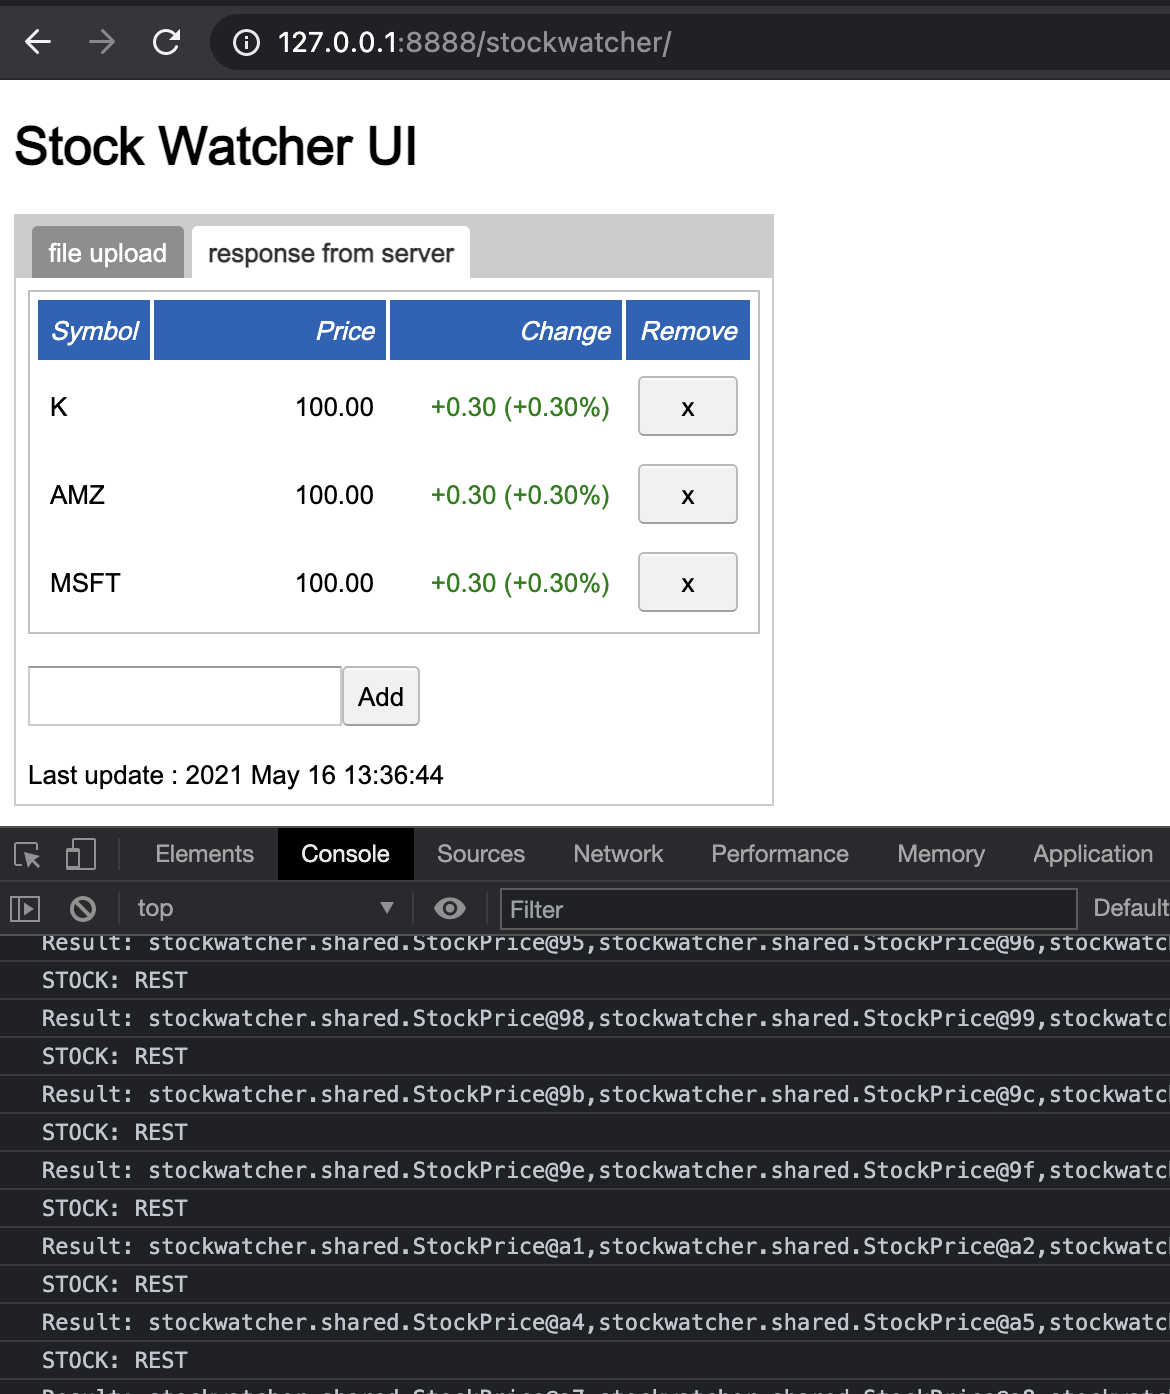
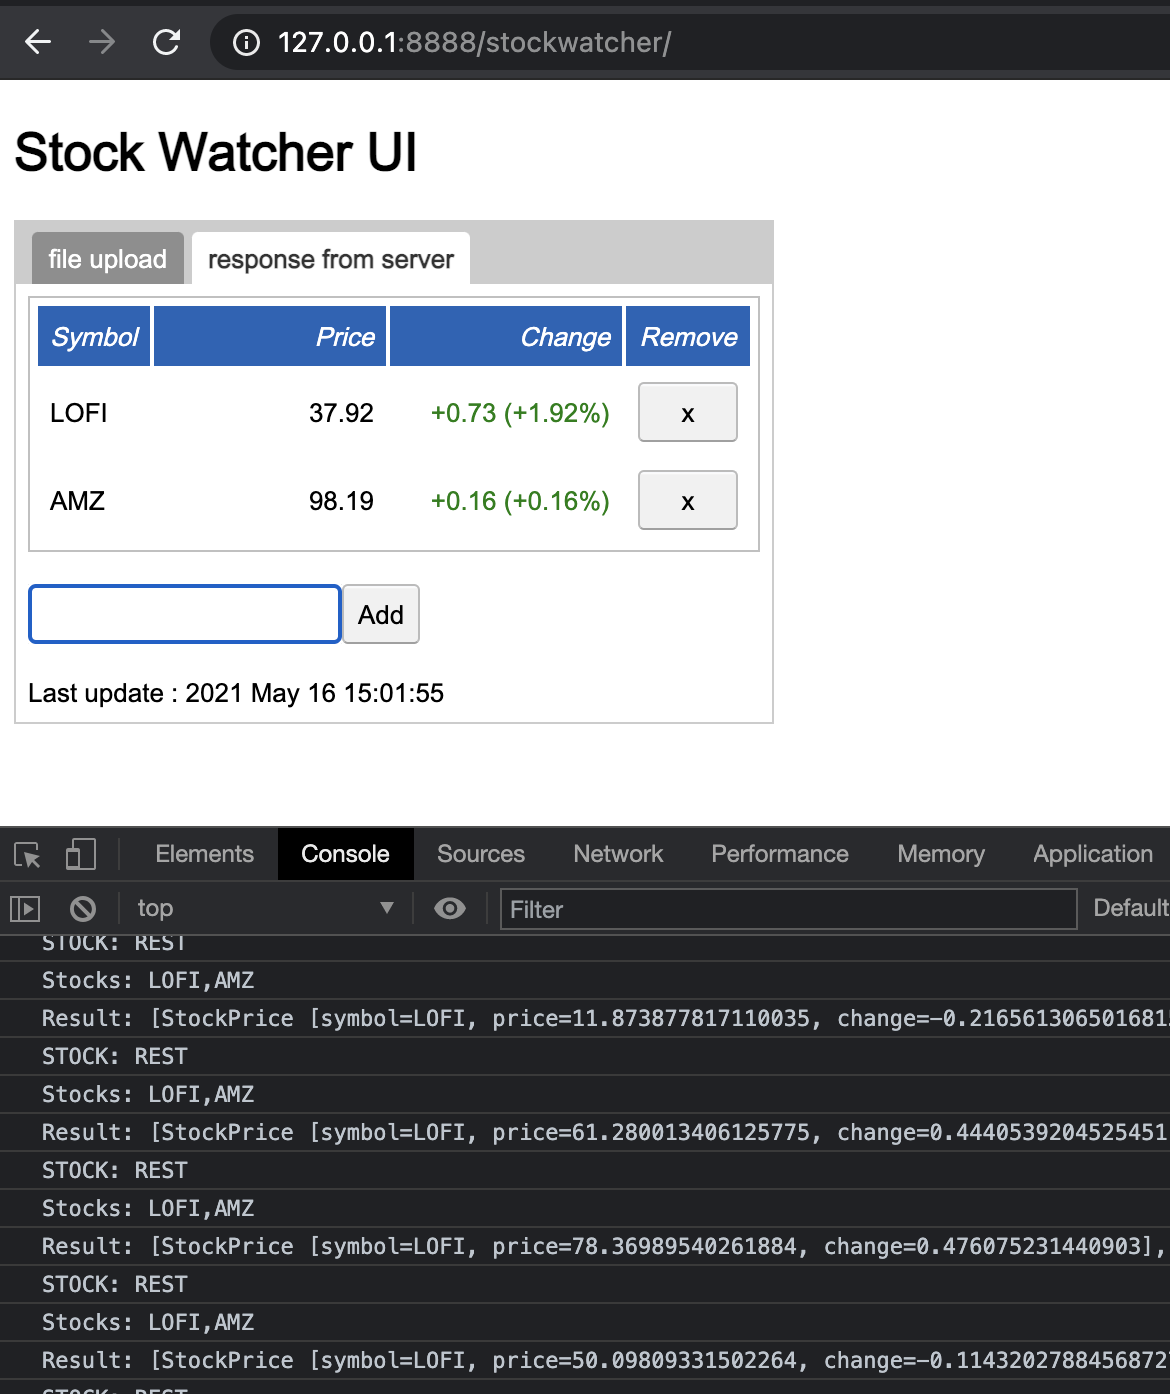
update

diff --git a/stockwatcher-springboot/stockwatcher-springboot-server/src/main/java/stockwatcher/controller/StockPriceRestController.java b/stockwatcher-springboot/stockwatcher-springboot-server/src/main/java/stockwatcher/controller/StockPriceRestController.java
@@ -1,6 +1,7 @@
 package stockwatcher.controller;
 
 import java.util.Arrays;
+import java.util.Random;
 import java.util.logging.Logger;
 
 import org.springframework.web.bind.annotation.CrossOrigin;
@@ -19,18 +20,28 @@ public class StockPriceRestController {
 	private static Logger logger = Logger.getLogger(StockPriceRestController.class.getName());
 
 	public StockPrice[] prices = new StockPrice[] { new StockPrice("AMZN", 100, 0.3), new StockPrice("MSFT", 10, 0.5) };
+	
+	private static final double MAX_PRICE = 100.0; // $100.00
+	private static final double MAX_PRICE_CHANGE = 0.02; // +/- 2%
 
 	@GetMapping(StockPriceServiceEndpoint.STOCK_PRICE_REST)
 	public StockPrice[] getPrices(@RequestParam String[] symbols) {
 		logger.info("Symbols: " + Arrays.toString(symbols));
 		
 		if (symbols.length > 0) {
-			prices = new StockPrice[symbols.length];
+			Random rnd = new Random();
+
+			StockPrice[] prices = new StockPrice[symbols.length];
 			for (int i = 0; i < symbols.length; i++) {
-				prices[i] = new StockPrice(symbols[i], 100, 0.3);
+				double price = rnd.nextDouble() * MAX_PRICE;
+				double change = price * MAX_PRICE_CHANGE * (rnd.nextDouble() * 2f - 1f);
+
+				prices[i] = new StockPrice(symbols[i], price, change);
 			}
+			
 			return prices;
 		}
+		
 		return prices; // default
 	}
 

diff --git a/stockwatcher-springboot/stockwatcher-springboot-client/src/main/java/stockwatcher/client/ResponseFromServerPanel.java b/stockwatcher-springboot/stockwatcher-springboot-client/src/main/java/stockwatcher/client/ResponseFromServerPanel.java
@@ -1,6 +1,7 @@
 package stockwatcher.client;
 
 import java.util.ArrayList;
+import java.util.Arrays;
 import java.util.Date;
 import java.util.logging.Logger;
 
@@ -185,13 +186,13 @@ public class ResponseFromServerPanel {
 		DominoRestConfig.initDefaults();
 
 		DominoRestConfig.getInstance().setDefaultServiceRoot(StockPriceServiceEndpoint.SERVER_CONTEXT_PATH);
-
-		String[] stocksArray = stocks.toArray(new String[stocks.size()]);
 		
-		logger.info("Stocks: " + stocksArray);
+		String stocksAsStringWithComma = String.join(",", stocks);
 		
-		StockPriceServiceClientFactory.INSTANCE.getPrices(stocksArray).onSuccess(response -> {
-			logger.info("Result: " + response);
+		logger.info("Stocks: " + stocksAsStringWithComma);
+		
+		StockPriceServiceClientFactory.INSTANCE.getPrices(stocksAsStringWithComma).onSuccess(response -> {
+			logger.info("Result: " + Arrays.toString(response));
 			updateTable(response);
 		}).onFailed(failedResponse -> {
 			logger.info("Error: " + failedResponse.getStatusCode() + "\nMessages: " + failedResponse.getStatusText());

diff --git a/stockwatcher-springboot/stockwatcher-springboot-shared/src/main/java/stockwatcher/shared/StockPrice.java b/stockwatcher-springboot/stockwatcher-springboot-shared/src/main/java/stockwatcher/shared/StockPrice.java
@@ -52,4 +52,10 @@ public class StockPrice implements Serializable {
 	public void setChange(double change) {
 		this.change = change;
 	}
+
+	@Override
+	public String toString() {
+		return "StockPrice [symbol=" + symbol + ", price=" + price + ", change=" + change + "]";
+	}
+	
 }

diff --git a/stockwatcher-springboot/stockwatcher-springboot-client/src/main/java/stockwatcher/client/StockPriceServiceClient.java b/stockwatcher-springboot/stockwatcher-springboot-client/src/main/java/stockwatcher/client/StockPriceServiceClient.java
@@ -14,5 +14,5 @@ public interface StockPriceServiceClient {
 
 	@GET
 	@Path(StockPriceServiceEndpoint.STOCK_PRICE_REST)
-	public StockPrice[] getPrices(@QueryParam("symbols") String[] symbols);
+	public StockPrice[] getPrices(@QueryParam("symbols") String symbols);
 }
